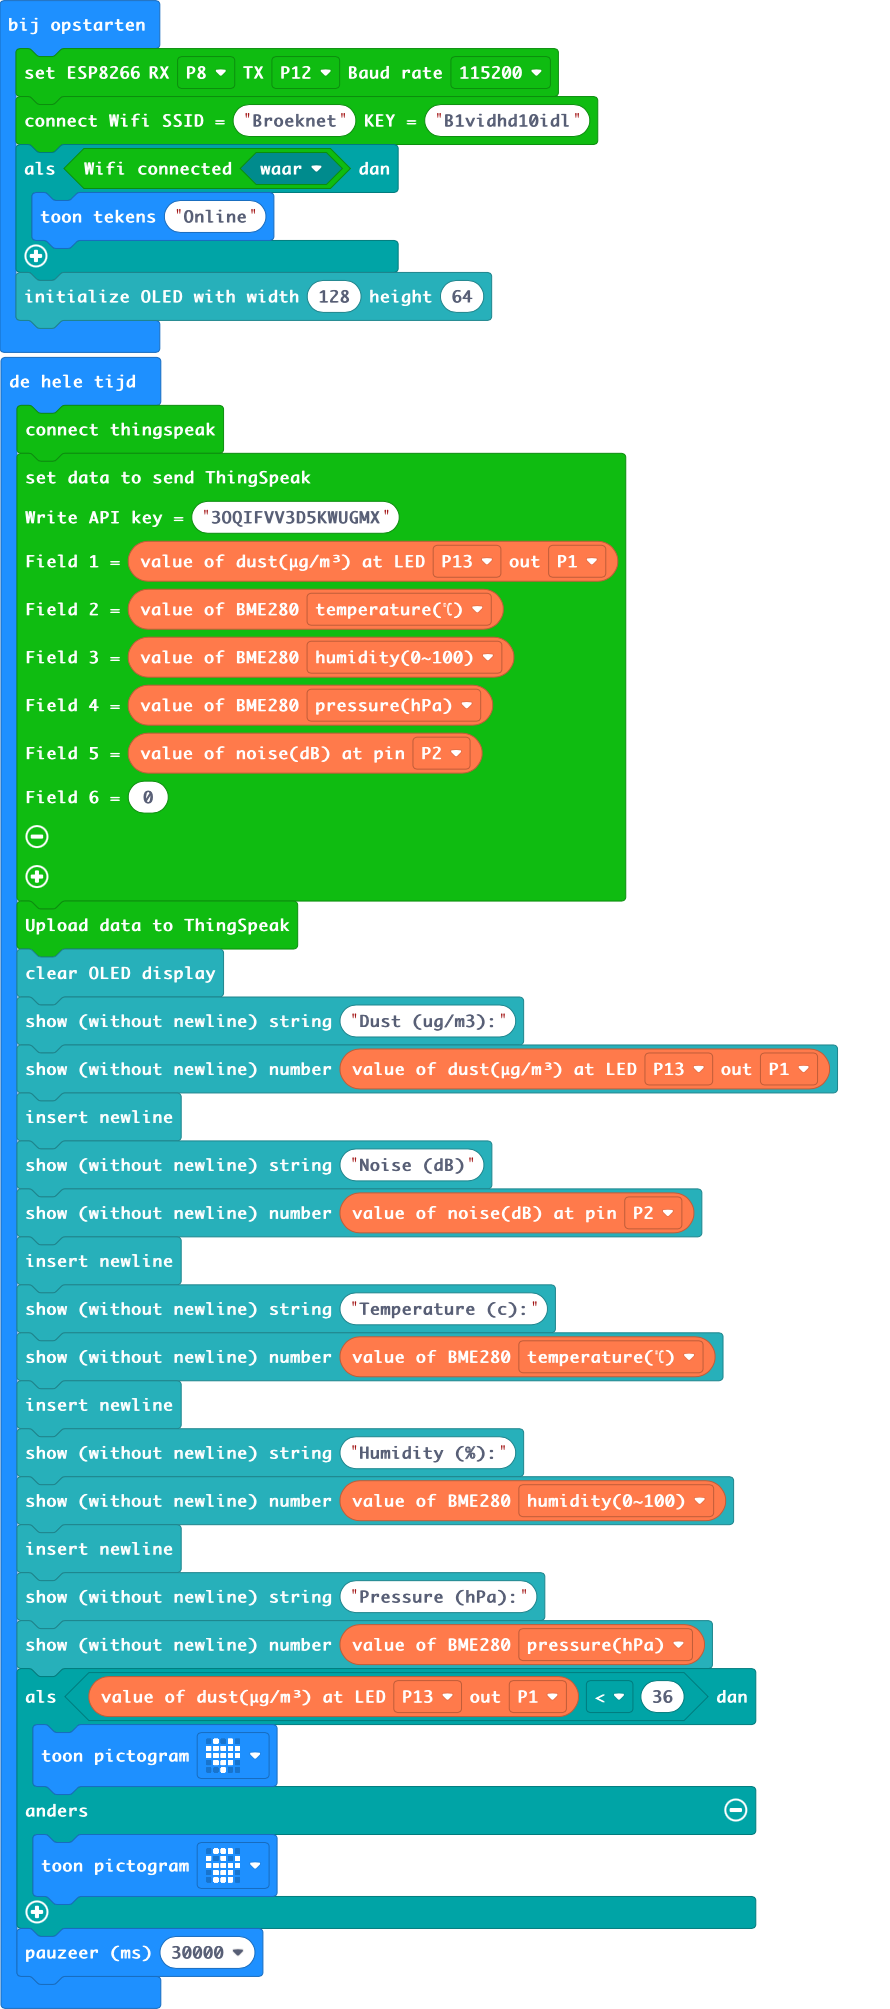
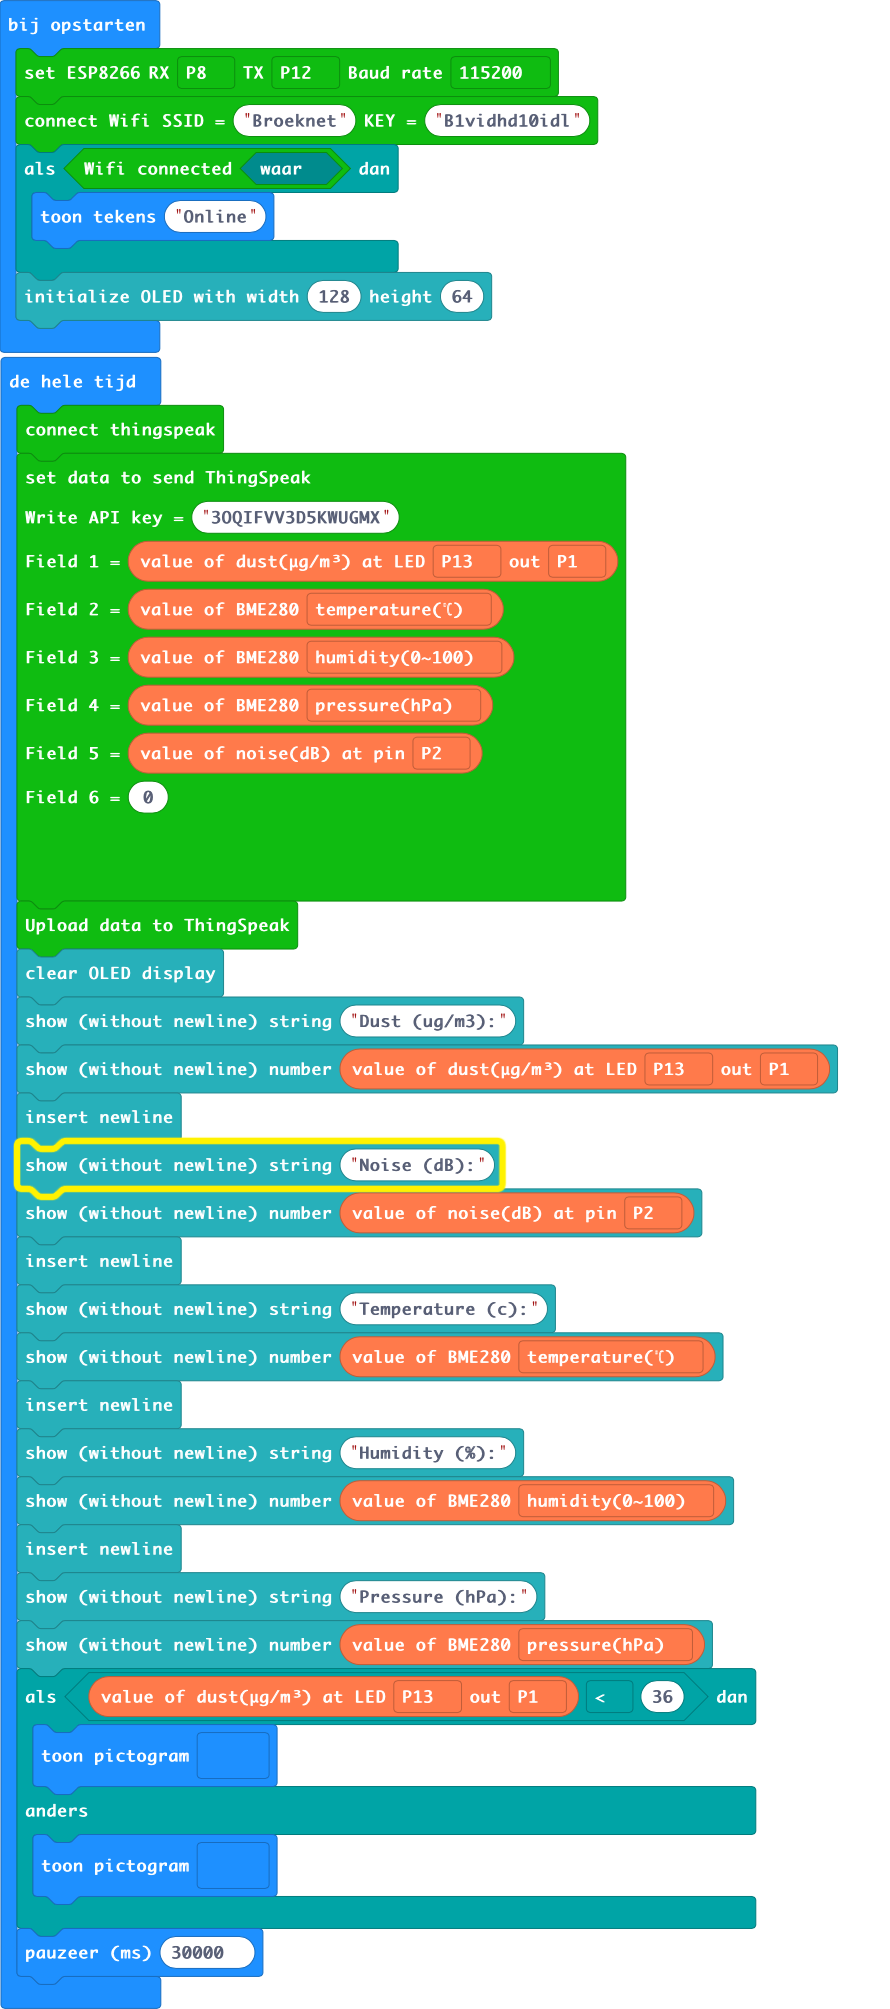
Typo in noise label.

diff --git a/main.ts b/main.ts
@@ -20,7 +20,7 @@ basic.forever(function () {
     OLED.writeString("Dust (ug/m3):")
     OLED.writeNum(Environment.ReadDust(DigitalPin.P13, AnalogPin.P1))
     OLED.newLine()
-    OLED.writeString("Noise (dB)")
+    OLED.writeString("Noise (dB):")
     OLED.writeNum(Environment.ReadNoise(AnalogPin.P2))
     OLED.newLine()
     OLED.writeString("Temperature (c):")
